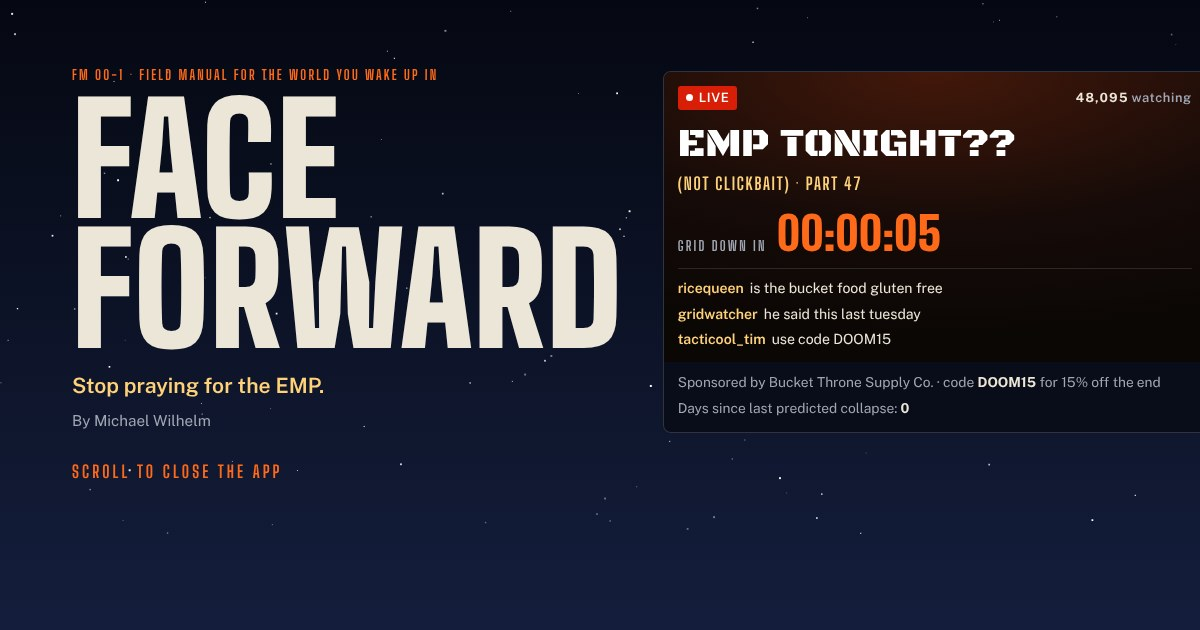
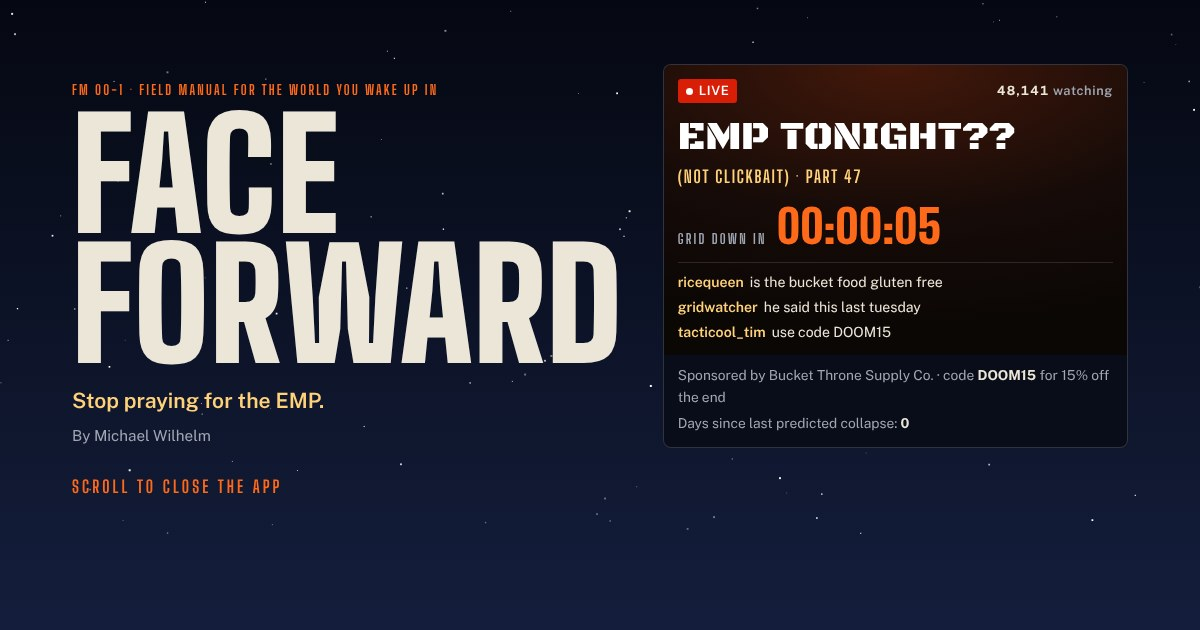
Futurist as a series: nav tab, homepage section, featured Gallery wall; display repairs; cats.txt
- Face Forward: the hero's livestream panel no longer runs off the right
  edge (two columns only where both fit, panel takes the room left).
- The Receipts: the register starts at ITEM 00/14 and rings up on scroll.
  Both are named repairs in src/lib/futurist.ts; the approved source files
  are unchanged. Share images re-rendered.
- Futurist joins the primary navigation, hangs in its own section on the
  homepage (all four installments, off the Room II wall), and its wall
  leads /gallery/.
- The pair and companion wording is gone: the four are the Futurist
  installments.
- cats.txt: four Futurist cats and the series link.

Claude-Session: https://claude.ai/code/session_01ATU162wbU7NAR5jKywjvrD

Changed region(s): [[0.0617, 0.0905, 0.5242, 0.7841], [0.555, 0.0905, 1.0, 0.5429], [0.555, 0.3317, 1.0, 0.6937]]

diff --git a/src/lib/futurist.ts b/src/lib/futurist.ts
@@ -14,9 +14,11 @@
  *     the link to the plain-text twin, the share card (the page's own
  *     render, public/og/<slug>.jpg) and the Article schema;
  *   - LINKS holds the two cross-links between Face Forward and The
- *     Receipts, each one a named, exact replacement.
+ *     Receipts, each one a named, exact replacement;
+ *   - FIXES holds the repairs made since the files were approved, each one
+ *     a named, exact replacement (the source files stay as approved).
  *
- * Nothing else is added: no wrapper element, no site navigation, no foot.
+ * Nothing is added around the page: no wrapper element, no site navigation, no foot.
  * Anything the function expects and does not find stops the build, so a
  * changed source file cannot ship half-mounted.
  */
@@ -61,6 +63,47 @@ const LINKS: Record<FuturistSlug, [string, string, string]> = {
     'the header line',
     '<p class="sub">FACE FORWARD · REGISTER 01</p>',
     '<p class="sub"><a href="/gallery/face-forward/" style="color:inherit;text-decoration:none">FACE FORWARD</a> · REGISTER 01</p>',
+  ],
+};
+
+/**
+ * Repairs to single pages: [what, the exact source text, its replacement].
+ *
+ * Face Forward: the hero's two columns were the headline's full width plus
+ * a fixed 34rem panel, which is wider than the hero's own 68rem box, so the
+ * livestream panel ran past the right edge of any window under about 1220px
+ * and sat off-centre above that. The panel column now takes the room that
+ * is left, and the two columns start only where both fit (1088px, the
+ * hero's full width); below that the hero stacks as it does on a phone.
+ *
+ * The Receipts: the register counted the first item as rung up on load,
+ * before any scrolling, so it never showed "ITEM 00/14 · SCROLL TO RING
+ * UP". Items now ring up only once the reader has scrolled.
+ */
+const FIXES: Record<FuturistSlug, [string, string, string][]> = {
+  'face-forward': [
+    [
+      "the hero's two-column rule",
+      '  .hero { grid-template-columns: 1fr 34rem; align-items: end; padding-top: 64px; column-gap: 40px; }\n  .hero .hint { grid-column: 1 / -1; }\n',
+      '  .hero { padding-top: 64px; }\n',
+    ],
+    [
+      'the end of the wide-screen rules',
+      '  .card { margin: 0; max-width: 30rem; }\n}\n',
+      '  .card { margin: 0; max-width: 30rem; }\n}\n' +
+        '/* site: the hero goes two-up only where both columns fit (src/lib/futurist.ts) */\n' +
+        '@media (min-width: 1088px) {\n' +
+        '  .hero { grid-template-columns: min-content minmax(0, 1fr); align-items: end; column-gap: 40px; }\n' +
+        '  .hero .hint { grid-column: 1 / -1; }\n' +
+        '}\n',
+    ],
+  ],
+  'the-receipts': [
+    [
+      "the register's ring-up test",
+      '      if (items[i].getBoundingClientRect().top < line) {',
+      '      if ((window.pageYOffset || document.documentElement.scrollTop || 0) > 0 && items[i].getBoundingClientRect().top < line) {',
+    ],
   ],
 };
 
@@ -171,6 +214,7 @@ export async function futuristDocument(slug: FuturistSlug): Promise<string> {
 
   const [what, find, put] = LINKS[slug];
   html = swap(html, find, put, what, slug);
+  for (const [fixed, from, to] of FIXES[slug]) html = swap(html, from, to, fixed, slug);
 
   return html.replace(/^<!DOCTYPE html>\n/i, '');
 }

diff --git a/src/config/futurist.ts b/src/config/futurist.ts
@@ -1,7 +1,7 @@
 /**
  * The Futurist pages mounted exactly as their approved source files (in
- * _incoming/futurist-essays/), by src/lib/futurist.ts: Face Forward and its
- * companion, The Receipts.
+ * _incoming/futurist-essays/), by src/lib/futurist.ts: Face Forward and
+ * The Receipts, the third and fourth Futurist installments.
  *
  * `sha256` is the approved file's hash: the build stops if the file on
  * record is not the file that was approved. `night` is the page's own
@@ -22,9 +22,3 @@ export const FUTURIST_SOURCES = {
 } as const;
 
 export type FuturistSlug = keyof typeof FUTURIST_SOURCES;
-
-/**
- * Both hang in the Gallery only: the homepage wall (RoomGallery) leaves
- * these frames out. Remove a slug to hang it on the homepage too.
- */
-export const FUTURIST_GALLERY_ONLY: string[] = ['face-forward', 'the-receipts'];

diff --git a/src/config/site.ts b/src/config/site.ts
@@ -38,6 +38,7 @@ export const NEWSLETTER_EMBED_HTML = '';
 export const NAV = [
   { label: 'BackGold', id: 'backgold' },
   { label: 'Gallery', id: 'gallery', page: '/gallery/' },
+  { label: 'Futurist', id: 'futurist', page: '/writings/futurist/' },
   { label: 'Writings', id: 'writings', page: '/writings/' },
   { label: 'Commissions', id: 'services', page: '/services/', room: false },
   { label: 'Earl', id: 'earl', page: '/earl/', room: false },

diff --git a/src/config/series.ts b/src/config/series.ts
@@ -49,7 +49,7 @@ export const series = {
     href: '/writings/futurist/',
     accent: '#c0281c',
     /* TODO(owner): the series' one-line statement, shown on /writings/futurist/ and in its feed. */
-    statement: 'Essays on what comes next, each staged as its own scrolling page.',
+    statement: 'The Futurist installments: essays on what comes next, each staged as its own scrolling page.',
   },
   mimics: {
     name: 'Mimics',

diff --git a/src/content/gallery/everyone-serialized.md b/src/content/gallery/everyone-serialized.md
@@ -15,11 +15,10 @@ series: futurist
 seriesNo: 2
 ---
 
-The second Futurist essay, the companion to Everyone, Searchable; on
-/gallery/ the two hang together as a pair near the foot of the wall
-(src/pages/gallery/index.astro). Its series label comes from
-src/content/writings/everyone-serialized.md. `order` hangs it after the
-frames already on the homepage wall, so the hero frame there stays
-Everyone, Searchable (15, since 14 is taken by an open branch). Taurus for
+The second Futurist installment; on /gallery/ the Futurist installments
+hang together as the featured series at the head of the wall
+(src/pages/gallery/index.astro), and on the homepage in their own section
+(FeatureFuturist). Its series label comes from
+src/content/writings/everyone-serialized.md. `order` is 15, after the frames that were on the wall when it was hung. Taurus for
 the body: the sign of the senses and of money, for a heartbeat that becomes
 a token. The plate is the coda's iris dark.

diff --git a/src/content/gallery/face-forward.md b/src/content/gallery/face-forward.md
@@ -19,9 +19,8 @@ seriesNo: 3
 Mounted as delivered from the owner's approved source file
 (_incoming/futurist-essays/face-forward.html) by src/lib/futurist.ts; the
 title and the card text are the file's own <title> and meta description.
-The third Futurist essay and the newest; The Receipts (No. 4) is its
-companion and hangs directly after it. Gallery only: the homepage wall
-leaves it out (src/config/futurist.ts). The time on `date` only orders it
+The third Futurist installment; The Receipts (No. 4) hangs directly after
+it. On the homepage both hang in the Futurist section (FeatureFuturist). The time on `date` only orders it
 ahead of The Receipts and Everyone, Serialized, published the same day, in
 the newest-first lists. The plate is the page's night. Chosen, not the
 owner's: the `verb` line and the zodiac `sign` (Leo, the sun's sign, for a

diff --git a/src/content/gallery/the-receipts.md b/src/content/gallery/the-receipts.md
@@ -18,9 +18,8 @@ seriesNo: 4
 
 Mounted as delivered from the owner's approved source file
 (_incoming/futurist-essays/the-receipts.html) by src/lib/futurist.ts. The
-companion to Face Forward (No. 3): the sources behind its second section,
-set as a register tape. It hangs directly after Face Forward. Gallery
-only: the homepage wall leaves it out (src/config/futurist.ts). The time
+fourth Futurist installment: the sources behind Face Forward's second
+section, set as a register tape. It hangs directly after Face Forward. The time
 on `date` only orders it after Face Forward in the newest-first lists. The
 plate is the page's counter. Chosen, not the owner's: the `verb` line and
 the zodiac `sign` (Libra, the scales, for a tally).

diff --git a/src/content/gallery/everyone-searchable.md b/src/content/gallery/everyone-searchable.md
@@ -15,8 +15,9 @@ series: futurist
 seriesNo: 1
 ---
 
-The first Futurist essay, and the hero frame of the homepage wall (the
-first entry by `order` takes the hero frame there). Its series label comes
+The first Futurist installment. On the homepage it hangs with the other
+Futurist installments in their own section (FeatureFuturist), not on the
+Room II wall. Its series label comes
 from src/content/writings/everyone-searchable.md. Aquarius for the ending:
 the water-bearer's vessel tips and the page floods. The plate is the coda's
 water taken down to a dark plate.
